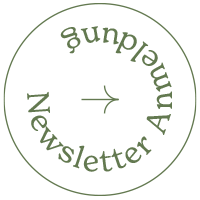
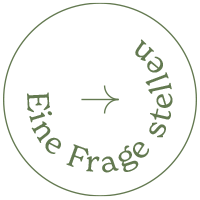
Hod

diff --git a/website/assets/scripts/scripts.js b/website/assets/scripts/scripts.js
@@ -2,7 +2,7 @@
 
 if (!(/(android|bb\d+|meego).+mobile|avantgo|bada\/|blackberry|blazer|compal|elaine|fennec|hiptop|iemobile|ip(hone|od)|ipad|iris|kindle|Android|Silk|lge |maemo|midp|mmp|netfront|opera m(ob|in)i|palm( os)?|phone|p(ixi|re)\/|plucker|pocket|psp|series(4|6)0|symbian|treo|up\.(browser|link)|vodafone|wap|windows (ce|phone)|xda|xiino/i.test(navigator.userAgent) 
 || /1207|6310|6590|3gso|4thp|50[1-6]i|770s|802s|a wa|abac|ac(er|oo|s\-)|ai(ko|rn)|al(av|ca|co)|amoi|an(ex|ny|yw)|aptu|ar(ch|go)|as(te|us)|attw|au(di|\-m|r |s )|avan|be(ck|ll|nq)|bi(lb|rd)|bl(ac|az)|br(e|v)w|bumb|bw\-(n|u)|c55\/|capi|ccwa|cdm\-|cell|chtm|cldc|cmd\-|co(mp|nd)|craw|da(it|ll|ng)|dbte|dc\-s|devi|dica|dmob|do(c|p)o|ds(12|\-d)|el(49|ai)|em(l2|ul)|er(ic|k0)|esl8|ez([4-7]0|os|wa|ze)|fetc|fly(\-|_)|g1 u|g560|gene|gf\-5|g\-mo|go(\.w|od)|gr(ad|un)|haie|hcit|hd\-(m|p|t)|hei\-|hi(pt|ta)|hp( i|ip)|hs\-c|ht(c(\-| |_|a|g|p|s|t)|tp)|hu(aw|tc)|i\-(20|go|ma)|i230|iac( |\-|\/)|ibro|idea|ig01|ikom|im1k|inno|ipaq|iris|ja(t|v)a|jbro|jemu|jigs|kddi|keji|kgt( |\/)|klon|kpt |kwc\-|kyo(c|k)|le(no|xi)|lg( g|\/(k|l|u)|50|54|\-[a-w])|libw|lynx|m1\-w|m3ga|m50\/|ma(te|ui|xo)|mc(01|21|ca)|m\-cr|me(rc|ri)|mi(o8|oa|ts)|mmef|mo(01|02|bi|de|do|t(\-| |o|v)|zz)|mt(50|p1|v )|mwbp|mywa|n10[0-2]|n20[2-3]|n30(0|2)|n50(0|2|5)|n7(0(0|1)|10)|ne((c|m)\-|on|tf|wf|wg|wt)|nok(6|i)|nzph|o2im|op(ti|wv)|oran|owg1|p800|pan(a|d|t)|pdxg|pg(13|\-([1-8]|c))|phil|pire|pl(ay|uc)|pn\-2|po(ck|rt|se)|prox|psio|pt\-g|qa\-a|qc(07|12|21|32|60|\-[2-7]|i\-)|qtek|r380|r600|raks|rim9|ro(ve|zo)|s55\/|sa(ge|ma|mm|ms|ny|va)|sc(01|h\-|oo|p\-)|sdk\/|se(c(\-|0|1)|47|mc|nd|ri)|sgh\-|shar|sie(\-|m)|sk\-0|sl(45|id)|sm(al|ar|b3|it|t5)|so(ft|ny)|sp(01|h\-|v\-|v )|sy(01|mb)|t2(18|50)|t6(00|10|18)|ta(gt|lk)|tcl\-|tdg\-|tel(i|m)|tim\-|t\-mo|to(pl|sh)|ts(70|m\-|m3|m5)|tx\-9|up(\.b|g1|si)|utst|v400|v750|veri|vi(rg|te)|vk(40|5[0-3]|\-v)|vm40|voda|vulc|vx(52|53|60|61|70|80|81|83|85|98)|w3c(\-| )|webc|whit|wi(g |nc|nw)|wmlb|wonu|x700|yas\-|your|zeto|zte\-/i.test(navigator.userAgent.substr(0,4)))) { 
-    $(window).resize(function(){location.reload();});
+    //$(window).resize(function(){location.reload();});
 } else { var mobile = true; }
 
 $(document).ready(function () {

diff --git a/website/assets/css/index.css b/website/assets/css/index.css
@@ -153,9 +153,8 @@ button.line { width:2rem; height:0.15rem; margin-left:-0.2rem; margin-right:-0.2
 button.line.lightGreenBackground:hover, button.line.lightGreenBackground.active { background-color:#1c3f41; }
 button.newsletter { width:8rem; height:8rem; background-image:url("/assets/images/icon-newsletter-green.png"); background-repeat:no-repeat; background-size:cover; }
 button.newsletter:hover { background-image:url("/assets/images/icon-newsletter-darkGreen.png"); }
-/* TODO Change button background for question*/
-button.question { width:8rem; height:8rem; background-image:url("/assets/images/icon-newsletter-green.png"); background-repeat:no-repeat; background-size:cover; }
-button.question:hover { background-image:url("/assets/images/icon-newsletter-darkGreen.png"); }
+button.question { width:8rem; height:8rem; background-image:url("/assets/images/icon-question-green.png"); background-repeat:no-repeat; background-size:cover; }
+button.question:hover { background-image:url("/assets/images/icon-question-darkGreen.png"); }
 button.rectangle { height:4rem; padding:1rem 4rem 1rem 1rem; text-align:left; background-repeat:no-repeat; background-position:center right 1rem; background-size:2.3rem; }
 button.rectangle.darkGreen { border:0.08rem solid #1c3f41; background-image:url("/assets/images/icon-next-circled-darkGreen.png"); }
 button.rectangle.darkGreen:hover { background-color:#1c3f41; background-image:url("/assets/images/icon-next-circled-white.png"); }

diff --git a/website/site/templates/home.php b/website/site/templates/home.php
@@ -51,7 +51,7 @@ else $backgroundStyle = ""; ?>
 						<span class="large alignFlexEnd">€<?= $treatment->price()->html() ?></span>
 					</div>
 					<div class="details width100 smallTopMargin">
-						<span class="flip small darkGreen"><?= $treatment->shortDescription()->html() ?></span>
+						<span class="flip width75 inlineBlock small darkGreen"><?= $treatment->shortDescription()->html() ?></span>
 						<a class="flip" href="<?= $treatment->url() ?>"><button class="width100 next large darkGreen">Details</button></a>
 					</div>
 				</div>
@@ -60,30 +60,7 @@ else $backgroundStyle = ""; ?>
 		<?php $treatmentsPage = $site->find("treatments"); ?>
 		<a href="<?= $treatmentsPage->url() ?>"><button class="circledNext topMargin floatRight darkGreen">Alle Behandlungen</button></a>
 	</section>
-	<section class="products width100 padding">
-		<h2 class="darkGreen">Produkt-<br/>Highlights</h2>
-		<div class="width2C topMargin">
-			<?php foreach ($page->productHighlights()->toPages() as $product) { ?>
-				<div class="item hoverFlip">
-					<a href="<?= $treatment->url() ?>">
-						<?php if ($image = $product->productImage()->toFile()) { ?>
-							<img class="width100 height85 cover" src="<?= $image->url() ?>" alt="<?= $product->name()->html() ?>"/>
-						<?php } ?>
-					</a>
-					<div class="details width100 smallTopMargin hoverFlip">
-						<div class="width100 flip">
-							<h3 class="width75 small darkGreen floatLeft"><?= $product->name()->html() ?><?php if ($product->size()->isNotEmpty()) echo ", ".$product->size()->html() ?></h3>
-							<span class="width75 small darkGreen floatLeft"><?= $product->shortDescription()->html() ?></span>
-							<span class="darkGreen floatRight">€<?= $product->price()->html() ?></span>
-						</div>
-						<a class="flip" href="<?= $treatment->url() ?>"><button class="width100 next large darkGreen">Details</button></a>
-					</div>
-				</div>
-			<?php } ?>
-		</div>
-		<?php $shopPage = $site->children()->find("shop"); ?>
-		<a href="<?= $shopPage->url() ?>"><button class="circledNext topMargin floatRight darkGreen">Zum Shop</button></a>
-	</section>
+	<?php snippet('productHighlights', ['filter' => 'manual']); ?>
 	<?php if ($page->eventHighlight()->isNotEmpty()) { 
 		$event = $page->eventHighlight()->toPage(); ?>
 		<section class="events width100 alignRight padding">

diff --git a/website/site/snippets/productHighlights.php b/website/site/snippets/productHighlights.php
@@ -1,0 +1,38 @@
+<?php //Select products according to filter
+if ($filter == "manual") $products = $page->productHighlights()->toPages();
+else if ($filter == "category") $products = $page->siblings()->filterBy("intendedTemplate", "product")->limit(2);
+//Display section only if product selection is not empty
+if (count($products) >= 1) { ?>
+<section class="products width100 padding">
+	<h2 class="darkGreen">
+		<?php 
+		//Alter headline according to filter
+		if ($filter == "manual") echo "Produkt-<br/>Highlights";
+		else if ($filter == "category") echo "Ähnliche<br/>Produkte"; ?>
+	</h2>
+	<div class="width2C topMargin">
+		<?php foreach ($products as $product) { ?>
+			<div class="item hoverFlip">
+				<a href="<?= $product->url() ?>">
+					<?php if ($image = $product->productImage()->toFile()) { ?>
+						<img class="width100 height85 cover" src="<?= $image->url() ?>" alt="<?= $product->name()->html() ?>"/>
+					<?php } ?>
+				</a>
+				<div class="details width100 smallTopMargin hoverFlip">
+					<div class="width100 flip">
+						<h3 class="width75 small darkGreen floatLeft"><?= $product->name()->html() ?><?php if ($product->size()->isNotEmpty()) echo ", ".$product->size()->html() ?></h3>
+						<span class="width75 small darkGreen floatLeft"><?= $product->shortDescription()->html() ?></span>
+						<span class="darkGreen floatRight">€<?= $product->price()->html() ?></span>
+					</div>
+					<a class="flip" href="<?= $product->url() ?>"><button class="width100 next large darkGreen">Details</button></a>
+				</div>
+			</div>
+		<?php } ?>
+	</div>
+	<?php //Display link to shop only if element isn't displayed on a shop page already
+	if (!in_array($page->template(), ["shop", "category", "products", "product"], true)) {
+		$shopPage = $site->children()->find("shop"); ?>
+		<a href="<?= $shopPage->url() ?>"><button class="circledNext topMargin floatRight darkGreen">Zum Shop</button></a>
+	<?php } ?>
+</section>
+<?php } ?>

diff --git a/website/site/templates/product.php b/website/site/templates/product.php
@@ -100,27 +100,6 @@ else $backgroundStyle = ""; ?>
     <h3 class="width50 darkGreen inlineBlock">Haben Sie noch Fragen zu diesem Product?<br/>Ich berate Sie gerne.</h3><br/>
     <button class="question topMargin"></button>
   </section>
-  <section class="products width100 padding">
-    <h2 class="darkGreen">Ähnliche<br/>Produkte für Sie</h2>
-    <div class="width2C topMargin">
-      <?php foreach ($page->similarProducts()->toPages() as $product) { ?>
-        <div class="item hoverFlip">
-          <a href="<?= $product->url() ?>">
-            <?php if ($image = $product->productImage()->toFile()) { ?>
-              <img class="width100 height85 cover" src="<?= $image->url() ?>" alt="<?= $product->name()->html() ?>"/>
-            <?php } ?>
-          </a>
-          <div class="details width100 smallTopMargin hoverFlip">
-            <div class="width100 flip">
-              <h3 class="width75 small darkGreen floatLeft"><?= $product->name()->html() ?><?php if ($product->size()->isNotEmpty()) echo ", ".$product->size()->html() ?></h3>
-              <span class="width75 small darkGreen floatLeft"><?= $product->shortDescription()->html() ?></span>
-              <span class="darkGreen floatRight">€<?= $product->price()->html() ?></span>
-            </div>
-            <a class="flip" href="<?= $product->url() ?>"><button class="width100 next large darkGreen">Details</button></a>
-          </div>
-        </div>
-      <?php } ?>
-    </div>
-  </section>
+  <?php snippet('productHighlights', ['filter' => 'category']); ?>
 	<?php snippet('footer'); ?>
 </body>
